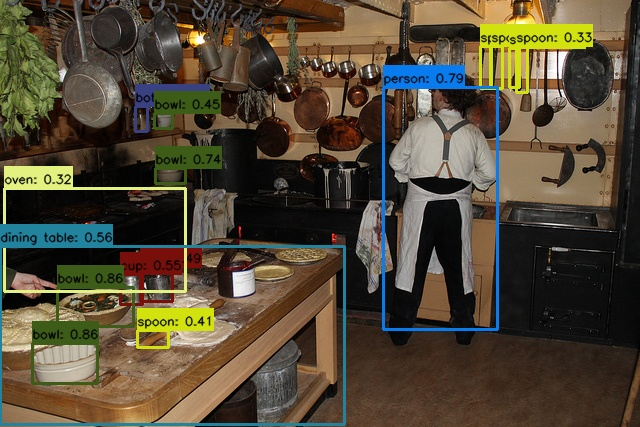
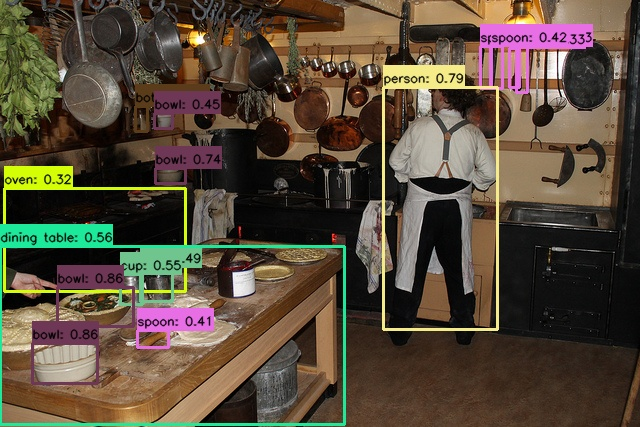
update

Changed region(s): [[0.0, 0.1827, 0.5312, 0.9133], [0.5938, 0.0304, 0.9375, 0.7916], [0.0, 0.5785, 0.5625, 1.0]]

diff --git a/models/yolov3.py b/models/yolov3.py
@@ -24,6 +24,7 @@ class YOLOv3(nn.Module):
         self.trainable = trainable
         self.conf_thresh = conf_thresh
         self.nms_thresh = nms_thresh
+        self.topk = 3000
         self.stride = [8, 16, 32]
         self.anchor_size = torch.tensor(anchor_size).view(3, len(anchor_size) // 3, 2)
         self.num_anchors = self.anchor_size.size(1)
@@ -204,7 +205,13 @@ class YOLOv3(nn.Module):
         scores = scores[keep]
         cls_inds = cls_inds[keep]
 
-        return bboxes, scores, cls_inds
+        # topk
+        scores_sorted, scores_sorted_inds = np.sort(scores), np.argsort(scores)
+        topk_scores, topk_scores_inds = scores_sorted[:self.topk], scores_sorted_inds[:self.topk]
+        topk_bboxes = bboxes[topk_scores_inds]
+        topk_cls_inds = cls_inds[topk_scores_inds]
+
+        return topk_bboxes, topk_scores, topk_cls_inds
 
 
     def forward(self, x, target=None):
